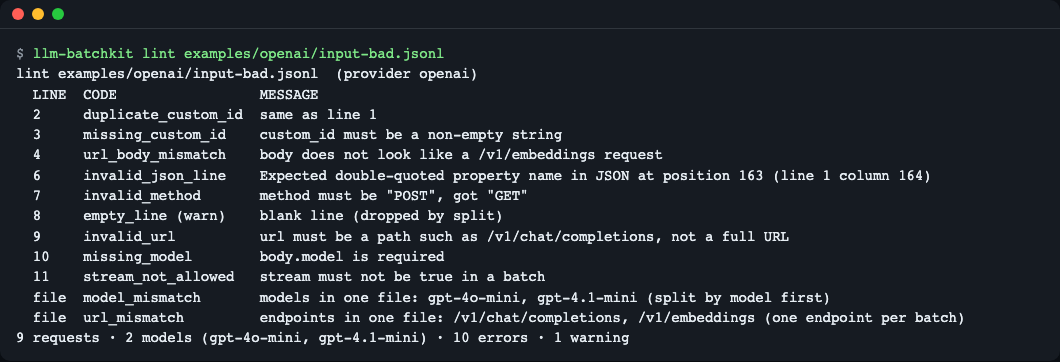
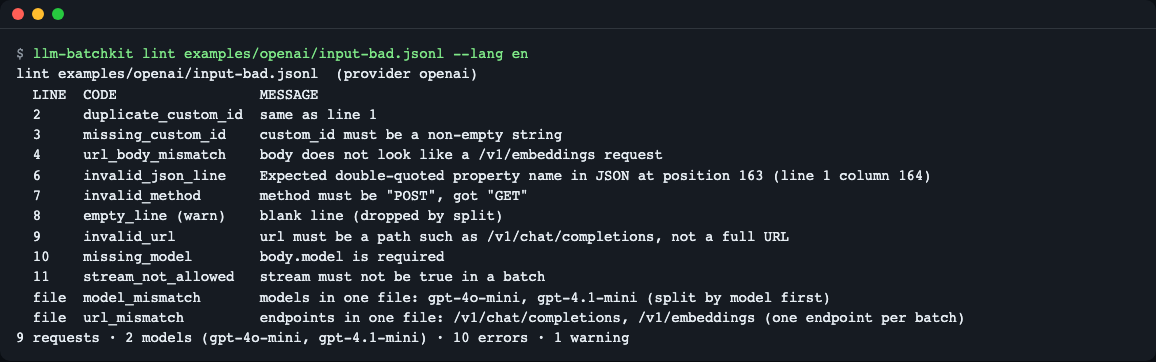
docs(readme): document output language and add Korean screenshots
Show real --lang ko output in README.ko.md and note which prefixes
and status values always stay in English.

Changed region(s): [[0.0, 0.3039, 0.9028, 0.9724], [0.0, 0.1215, 0.467, 0.2735], [0.0, 0.0, 0.0623, 0.0608]]

diff --git a/README.ko.md b/README.ko.md
@@ -4,7 +4,7 @@
 
 Batch 작업은 파일 하나를 올리고 최대 24시간 뒤에 결과를 받는 방식이라, 입력 파일의 실수를 늦게 알게 되고 결과도 여러 파일에 흩어져 돌아옵니다. `llm-batchkit` 은 그 앞뒤의 파일 작업(검사 → 분할 → 병합 → 재시도 파일 만들기)을 줄 번호와 요청 ID 단위로 해 주는 CLI 입니다.
 
-![입력 파일 검사 결과](docs/images/01-lint-bad.png)
+![입력 파일 검사 결과](docs/images/01-lint-bad.ko.png)
 *일부러 망가뜨린 입력 파일을 업로드 전에 검사한 화면. 줄 번호와 오류 코드가 한 줄씩 나옵니다.*
 
 ## 이런 분께
@@ -26,15 +26,15 @@ node dist/cli.js --help
 ## 빠르게 시작하기
 API 키 없이, 저장소에 들어 있는 연습용 mock(모의) 서버로 전체 과정을 한 번에 돌려 봅니다.
 ```bash
-npm run demo
+npm run demo -- --lang ko
 ```
-마지막 줄이 다음과 같으면 성공입니다.
+마지막 줄이 다음과 같으면 성공입니다. (`--lang ko` 를 빼면 환경의 언어를 따릅니다. 영어 출력은 `--lang en`.)
 ```
-DEMO OK  succeeded 11 · failed 1 (400, not retried) · retried 4
+데모 성공  성공 11 · 실패 1 (400, 재시도 안 함) · 재시도 4
 ```
-첫 줄에 `PRACTICE MOCK MODE` 가 찍힙니다. 이는 127.0.0.1 에서만 도는 **연습용 목(mock) 모드**로, 실제 서버의 시간·한도·가격·오류 문구는 재현하지 않습니다.
+첫 줄에 `연습용 목(mock) 모드` 안내가 찍힙니다(영어 출력에서는 `PRACTICE MOCK MODE`). 이는 127.0.0.1 에서만 도는 **연습용 목(mock) 모드**로, 실제 서버의 시간·한도·가격·오류 문구는 재현하지 않습니다.
 
-![데모 6~11단계](docs/images/03-demo-merge.png)
+![데모 6~11단계](docs/images/03-demo-merge.ko.png)
 *병합 결과(성공 7, 실패 2, 만료 1, 취소 1, 누락 1) → 재시도 4건 → 다시 병합(성공 11, 400 한 건만 남음).*
 
 ## 사용법
@@ -52,40 +52,40 @@ DEMO OK  succeeded 11 · failed 1 (400, not retried) · retried 4
 
 ### 시나리오 1. 올리기 전에 검사하기
 ```bash
-node dist/cli.js lint examples/openai/input-bad.jsonl
+node dist/cli.js lint examples/openai/input-bad.jsonl --lang ko
 ```
 ```
-lint examples/openai/input-bad.jsonl  (provider openai)
-  LINE  CODE                 MESSAGE
-  2     duplicate_custom_id  same as line 1
-  3     missing_custom_id    custom_id must be a non-empty string
-  4     url_body_mismatch    body does not look like a /v1/embeddings request
+lint examples/openai/input-bad.jsonl  (제공자 openai)
+  줄    코드                 메시지
+  2     duplicate_custom_id  1번째 줄과 같습니다
+  3     missing_custom_id    custom_id 는 비어 있지 않은 문자열이어야 합니다
+  4     url_body_mismatch    body 가 /v1/embeddings 요청 형식이 아닌 것 같습니다
   6     invalid_json_line    Expected double-quoted property name in JSON at position 163 (line 1 column 164)
-  7     invalid_method       method must be "POST", got "GET"
-  8     empty_line (warn)    blank line (dropped by split)
-  9     invalid_url          url must be a path such as /v1/chat/completions, not a full URL
-  10    missing_model        body.model is required
-  11    stream_not_allowed   stream must not be true in a batch
-  file  model_mismatch       models in one file: gpt-4o-mini, gpt-4.1-mini (split by model first)
-  file  url_mismatch         endpoints in one file: /v1/chat/completions, /v1/embeddings (one endpoint per batch)
-9 requests · 2 models (gpt-4o-mini, gpt-4.1-mini) · 10 errors · 1 warning
+  7     invalid_method       method 는 "POST" 여야 합니다 (현재 "GET")
+  8     empty_line (경고)    빈 줄입니다 (split 이 제거합니다)
+  9     invalid_url          url 은 /v1/chat/completions 같은 경로여야 하며 전체 URL 이면 안 됩니다
+  10    missing_model        body.model 이 필요합니다
+  11    stream_not_allowed   배치에서는 stream 을 true 로 둘 수 없습니다
+  파일  model_mismatch       한 파일에 모델이(가) 섞여 있습니다: gpt-4o-mini, gpt-4.1-mini (먼저 모델별로 나누십시오)
+  파일  url_mismatch         한 파일에 엔드포인트가 섞여 있습니다: /v1/chat/completions, /v1/embeddings (배치 하나에는 엔드포인트 하나만 가능)
+요청 9건 · 모델 2개 (gpt-4o-mini, gpt-4.1-mini) · 오류 10건 · 경고 1건
 ```
-같은 코드의 이슈가 50개를 넘으면 나머지는 `... and N more <code> (use --json to list all)` 로 접고, `--json` 에는 전부 담습니다. 빈 파일은 `empty_file` 오류(종료 코드 1)입니다.
+같은 코드의 이슈가 50개를 넘으면 나머지는 `... 그 밖에 <code> N건 더 있습니다 (전체 목록은 --json 으로 확인하십시오)` 로 접고, `--json` 에는 전부 담습니다. `--json` 출력은 어떤 언어로 실행해도 영어 그대로입니다. 빈 파일은 `empty_file` 오류(종료 코드 1)입니다.
 
-읽는 법: `LINE` 은 입력 파일의 줄 번호, `file` 은 파일 전체에 해당하는 문제입니다. `(warn)` 은 경고라 종료 코드에 영향이 없고(`--strict` 를 주면 실패 처리), 나머지는 오류라 종료 코드가 1 입니다. Anthropic 파일은 `custom_id` 형식(`^[a-zA-Z0-9_-]{1,64}$`)과 `max_tokens`, 금지 파라미터도 검사합니다(`examples/anthropic/requests.json`).
+읽는 법: `줄` 은 입력 파일의 줄 번호, `파일` 은 파일 전체에 해당하는 문제입니다. `(경고)` 는 경고라 종료 코드에 영향이 없고(`--strict` 를 주면 실패 처리), 나머지는 오류라 종료 코드가 1 입니다. Anthropic 파일은 `custom_id` 형식(`^[a-zA-Z0-9_-]{1,64}$`)과 `max_tokens`, 금지 파라미터도 검사합니다(`examples/anthropic/requests.json`).
 
 ### 시나리오 2. 한도에 맞춰 나누기
 ```bash
-node dist/cli.js split examples/openai/input.jsonl --out run1 --max-requests 6
+node dist/cli.js split examples/openai/input.jsonl --out run1 --max-requests 6 --lang ko
 ```
 ```
 split examples/openai/input.jsonl -> run1
-  SHARD            REQUESTS  BYTES  EST_TOKENS  MODEL
-  shard-000.jsonl  6         1692   205         gpt-4o-mini
-  shard-001.jsonl  6         1679   203         gpt-4o-mini
-2 shards · 12 requests · manifest: run1/manifest.json
+  샤드             요청 수  바이트  추정 토큰  모델
+  shard-000.jsonl  6        1692    205        gpt-4o-mini
+  shard-001.jsonl  6        1679    203        gpt-4o-mini
+샤드 2개 · 요청 12건 · manifest: run1/manifest.json
 ```
-![분할 결과](docs/images/02-split.png)
+![분할 결과](docs/images/02-split.ko.png)
 *12건을 6건씩 샤드 2개로 나눈 화면. `manifest.json` 에 원래 순서와 샤드 대응이 기록됩니다.*
 
 읽는 법: `EST_TOKENS` 는 글자 수 ÷ 4 로 어림한 값입니다. `split` 은 줄 단위 오류가 있는 파일을 거부하므로 먼저 `lint` 를 통과시키세요.
@@ -104,17 +104,18 @@ node dist/cli.js retry run1/results.jsonl --out run1/retry-1
 `npm run demo` 가 같은 순서를 한 번에 보여 주며, 그 출력은 다음과 같습니다(경로는 줄였습니다).
 ```
 $ llm-batchkit merge run1/manifest.json
-succeeded 7 · failed 2 (400×1, 500×1) · expired 1 · cancelled 1 · missing 1
-  req-004  failed  400  shard-000.output.jsonl  (not retried by default)
-  req-006  missing  -  -
-  req-009  expired  batch_expired  shard-001.error.jsonl
-  req-011  failed  500  shard-001.error.jsonl
-  req-012  cancelled  batch_cancelled  shard-001.error.jsonl
+merge 결과 파일 3개 -> run1/results.jsonl
+성공 7 · 실패 2 (400×1, 500×1) · 만료 1 · 취소 1 · 누락 1
+  req-004  실패  400  shard-000.output.jsonl  (기본값으로는 재시도하지 않음)
+  req-006  누락  -  -
+  req-009  만료  batch_expired  shard-001.error.jsonl
+  req-011  실패  500  shard-001.error.jsonl
+  req-012  취소  batch_cancelled  shard-001.error.jsonl
 
 $ llm-batchkit retry run1/results.jsonl --out run1/retry-1
-  req-004  excluded: 400 (client error, use --include-4xx)
-4 to retry · 1 excluded
-wrote run1/retry-1/input.jsonl (4 requests, original lines unchanged)
+  req-004  제외: 400 (클라이언트 오류, 포함하려면 --include-4xx)
+재시도 4건 · 제외 1건
+run1/retry-1/input.jsonl 를 만들었습니다 (요청 4건, 원본 줄은 그대로)
 ```
 읽는 법: `req-004` 는 400 응답이 **output 파일**에 들어 있었고, `req-011` 은 500 이 **error 파일**에 있었습니다. 파일 종류가 아니라 줄 내용으로 분류하기 때문에 둘 다 실패로 잡힙니다. 400 같은 요청 자체의 오류는 다시 보내도 같은 결과라서 기본으로 제외합니다.
 
@@ -126,15 +127,15 @@ node dist/cli.js collect run1/retry-1/manifest.json --base-url http://127.0.0.1:
 node dist/cli.js merge run1/manifest.json
 ```
 ```
-  shard-000.jsonl  submitted
-1 submitted · 0 already submitted · 0 held
+  shard-000.jsonl  제출함
+제출함 1건 · 이미 제출 0건 · 보류 0건
   shard-000.jsonl  completed -> shard-000.output.jsonl
-all batches finished - run `merge` next
-merge 4 result files -> run1/results.jsonl
-succeeded 11 · failed 1 (400×1)
-  req-004  failed  400  shard-000.output.jsonl  (not retried by default)
+모든 배치가 끝났습니다 - 다음으로 `merge` 를 실행하십시오
+merge 결과 파일 4개 -> run1/results.jsonl
+성공 11 · 실패 1 (400×1)
+  req-004  실패  400  shard-000.output.jsonl  (기본값으로는 재시도하지 않음)
 ```
-여기서 `retry` 를 다시 실행하면 `nothing to retry (1 excluded)` 가 나옵니다. 성공한 행은 다시 고르지 않습니다. 성공한 결과는 항상 실패보다 우선하고, 성공이 여러 번이면 첫 성공을 남기며 중복으로 보고합니다. Anthropic 결과는 공식 방법으로 받은 파일을 `*.results.jsonl` 이름으로 manifest 옆에 두거나 `merge <manifest> <파일...>` 인자로 넘기세요.
+여기서 `retry` 를 다시 실행하면 `재시도할 항목이 없습니다 (1건 제외)` 가 나옵니다. 성공한 행은 다시 고르지 않습니다. 성공한 결과는 항상 실패보다 우선하고, 성공이 여러 번이면 첫 성공을 남기며 중복으로 보고합니다. Anthropic 결과는 공식 방법으로 받은 파일을 `*.results.jsonl` 이름으로 manifest 옆에 두거나 `merge <manifest> <파일...>` 인자로 넘기세요.
 
 ### 실패한 배치 고치기
 제공자가 입력 검증으로 배치를 거부하면 `collect` 가 종료 코드 1 과 줄 번호가 붙은 오류를 냅니다. 해당 샤드 파일(`run1/shard-000.jsonl`)을 고친 뒤 `submit` 을 다시 실행하세요. `submit` 은 파일 내용보다 **배치 상태를 먼저** 봅니다.
@@ -148,16 +149,16 @@ succeeded 11 · failed 1 (400×1)
 
 옛 결과 파일은 지우지 않고 `shard-000.output.replaced-<batch_id>.jsonl` 로 이름을 바꿔 보관하며, `merge` 는 이 파일을 쓰지 않습니다. 실제로 mock 서버에서 완료된 `shard-000.jsonl` 끝에 빈 줄을 붙인 뒤 실행한 결과입니다.
 ```
-$ llm-batchkit submit run1/manifest.json --base-url http://127.0.0.1:<port>/v1
-error: refusing to submit - nothing was uploaded:
-  shard-000.jsonl changed after batch_mock_1 completed
-  fix: Its results are already there. Restore the shard file, or split the edited input into a new folder. To send it again on purpose (the requests are billed again) pass --resubmit-changed.
+$ llm-batchkit submit run1/manifest.json --base-url http://127.0.0.1:<port>/v1 --lang ko
+error: 제출을 거부합니다 - 아무것도 업로드하지 않았습니다:
+  shard-000.jsonl 이(가) batch_mock_1 completed 이후 바뀌었습니다
+  fix: 결과가 이미 있습니다. 샤드 파일을 되돌리거나, 수정한 입력을 새 폴더로 나누십시오. 의도적으로 다시 보내려면(요청이 다시 과금됩니다) --resubmit-changed 를 지정하십시오.
 
-$ llm-batchkit submit run1/manifest.json --base-url http://127.0.0.1:<port>/v1 --resubmit-changed
-  shard-000.jsonl  submitted (replaces an earlier batch: changed after completed batch_mock_1)
-  shard-001.jsonl  already submitted (skipped)
-kept old result files as shard-000.output.replaced-batch_mock_1.jsonl (merge ignores them)
-1 submitted · 1 already submitted · 0 held
+$ llm-batchkit submit run1/manifest.json --base-url http://127.0.0.1:<port>/v1 --resubmit-changed --lang ko
+  shard-000.jsonl  제출함 (이전 배치를 대체합니다: completed 상태의 batch_mock_1 이후 파일이 변경됨)
+  shard-001.jsonl  이미 제출됨 (건너뜀)
+이전 결과 파일을 shard-000.output.replaced-batch_mock_1.jsonl 로 보관했습니다 (merge 는 이 파일을 무시합니다)
+제출함 1건 · 이미 제출 1건 · 보류 0건
 ```
 첫 명령은 종료 코드 1, 둘째는 0 입니다. 이미 결과가 있는 폴더에 `split` 하면 `out_dir_in_use` 로 거부하고, `--force` 는 배치가 전부 `failed` 인 폴더에서만 샤드 파일을 덮어씁니다. 진행 중이거나 완료된 배치가 있으면 `--force` 도 `out_dir_has_batches` 로 거부하므로 새 폴더(`--out run2`)에 나누세요.
 
@@ -176,6 +177,7 @@ kept old result files as shard-000.output.replaced-batch_mock_1.jsonl (merge ign
   - `OPENAI_API_KEY`: OpenAI 호환 엔드포인트용 키
   - `OPENAI_BASE_URL`: 선택. 기본 `https://api.openai.com/v1` (`--base-url` 로도 지정)
 - `lint`·`split`·`merge`·`retry`·`npm run demo` 는 키도 네트워크도 필요 없습니다.
+- **출력 언어(영어·한국어)**: 모든 명령에서 `--lang en|ko` 를 받습니다. 정하는 순서는 `--lang` > 환경변수 `LLM_BATCHKIT_LANG` > `LC_ALL` > `LC_MESSAGES` > `LANG` 이며, 값이 `ko` 로 시작하면 한국어, 그 밖이거나 설정이 없으면 영어입니다. 예: `LLM_BATCHKIT_LANG=ko node dist/cli.js lint input.jsonl`. 도움말·검사 보고서·요약·`error:`/`fix:` 줄·mock 서버 안내·`npm run demo` 가 바뀌고, `--json` 출력·이슈 코드·종료 코드·파일 형식은 어느 언어로 실행해도 같습니다. 문구를 그대로 비교하는 스크립트는 `--lang en`(또는 `LLM_BATCHKIT_LANG=en`)으로 고정하세요. mock 서버의 `listening on http://127.0.0.1:<포트>/v1` 줄은 두 언어에서 형식이 같습니다. `npm run demo` 는 `npm run demo -- --lang ko` 로 언어를 고릅니다. `error:`·`fix:` 접두어와 배치 상태값(`completed` 등)은 언어와 무관하게 영어 그대로입니다.
 - 제공자별 기본 한도(2026-11-11 문서 기준, `src/providers.ts` 주석에 출처). 한도는 바뀌므로 `--max-*` 로 덮어쓸 수 있습니다.
 
 | 제공자 | 요청 수 | 파일 크기 | 비고 |
@@ -286,7 +288,7 @@ npm install /path/to/llm-batchkit
 
 ## 개발·기여
 ```bash
-npm test        # 빌드 후 vitest (8 파일, 83 테스트)
+npm test        # 빌드 후 vitest (9 파일, 103 테스트)
 npm run demo    # 키 없이 전체 과정 연습
 ```
 버그·제안은 이슈로 남겨 주세요. 변경 기록은 [CHANGELOG.md](CHANGELOG.md).

diff --git a/README.md b/README.md
@@ -21,7 +21,6 @@ cd llm-batchkit
 npm install          # also builds dist/ automatically after install
 node dist/cli.js --help
 ```
-(Comments: "If you do not have Node.js (macOS): brew install node" and "after installation it also builds (dist/) automatically".)
 
 `llm-batchkit ...` in this document is the same as `node dist/cli.js ...`. To keep it short, register the `llm-batchkit` command with `npm link`. A minimal Linux environment needs `git`, `nodejs` (22.12 or later) and `npm`. There are no runtime dependencies.
 
@@ -30,7 +29,7 @@ Run the whole process in one go, with no API key, against the practice mock serv
 ```bash
 npm run demo
 ```
-If the last line is as follows, it succeeded.
+If the last line is as follows, it succeeded. The output language follows your locale; pin it with `--lang en`.
 ```
 DEMO OK  succeeded 11 · failed 1 (400, not retried) · retried 4
 ```
@@ -178,6 +177,7 @@ You can narrow the kinds with `--only expired,cancelled,missing,failed`.
   - `OPENAI_API_KEY`: key for OpenAI-compatible endpoints
   - `OPENAI_BASE_URL`: optional. Default `https://api.openai.com/v1` (can also be set with `--base-url`)
 - `lint`, `split`, `merge`, `retry` and `npm run demo` need neither keys nor network.
+- **Output language (English / Korean)**: every command accepts `--lang en|ko`. The order is `--lang` > the `LLM_BATCHKIT_LANG` environment variable > `LC_ALL` > `LC_MESSAGES` > `LANG`; a value starting with `ko` selects Korean, anything else (or nothing set) gives English. Example: `LLM_BATCHKIT_LANG=ko node dist/cli.js lint input.jsonl`. It switches the help, the lint report, summaries, `error:`/`fix:` lines, the mock server notice and `npm run demo` (`npm run demo -- --lang ko`). `--json` output, issue codes, exit codes and file formats are identical in both languages. A script that compares the text should pin `--lang en` (or `LLM_BATCHKIT_LANG=en`). The mock server's `listening on http://127.0.0.1:<port>/v1` line has the same format in both languages. The `error:` and `fix:` prefixes and batch status values (such as `completed`) stay in English in both languages.
 - Default limits per provider (as of the 2026-11-11 documentation; sources are in comments in `src/providers.ts`). Limits change, so you can override them with `--max-*`.
 
 | Provider | Requests | File size | Notes |
@@ -288,7 +288,7 @@ npm install /path/to/llm-batchkit
 
 ## Development and contributing
 ```bash
-npm test        # build, then vitest (8 files, 83 tests)
+npm test        # build, then vitest (9 files, 103 tests)
 npm run demo    # practice the whole process without keys
 ```
 
